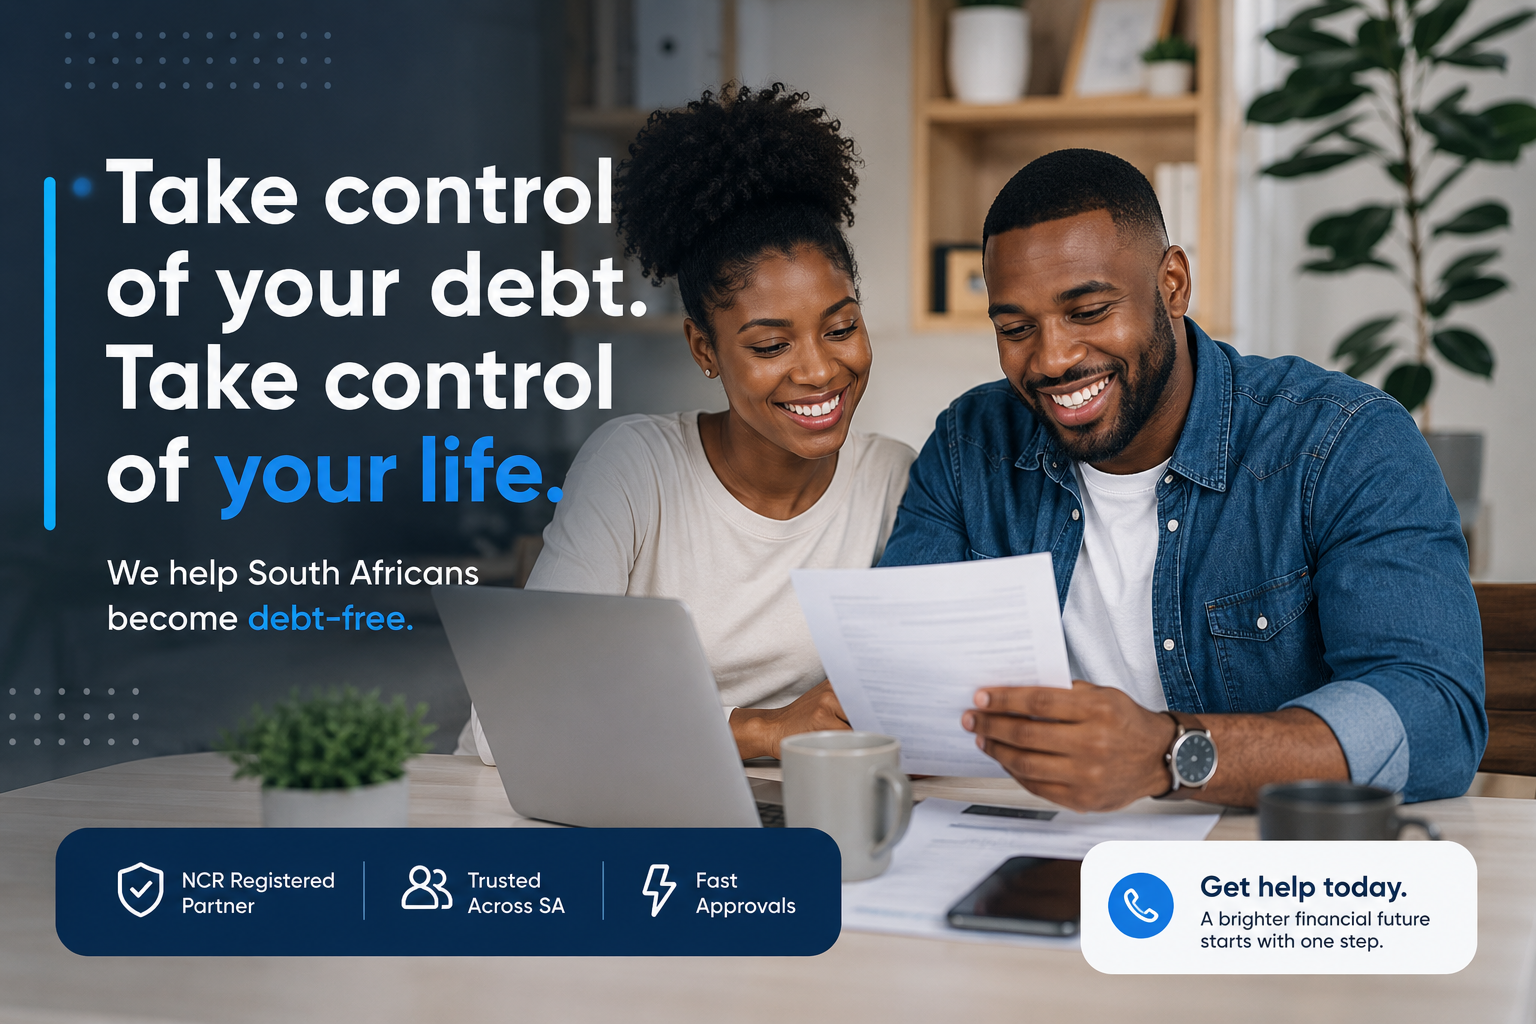
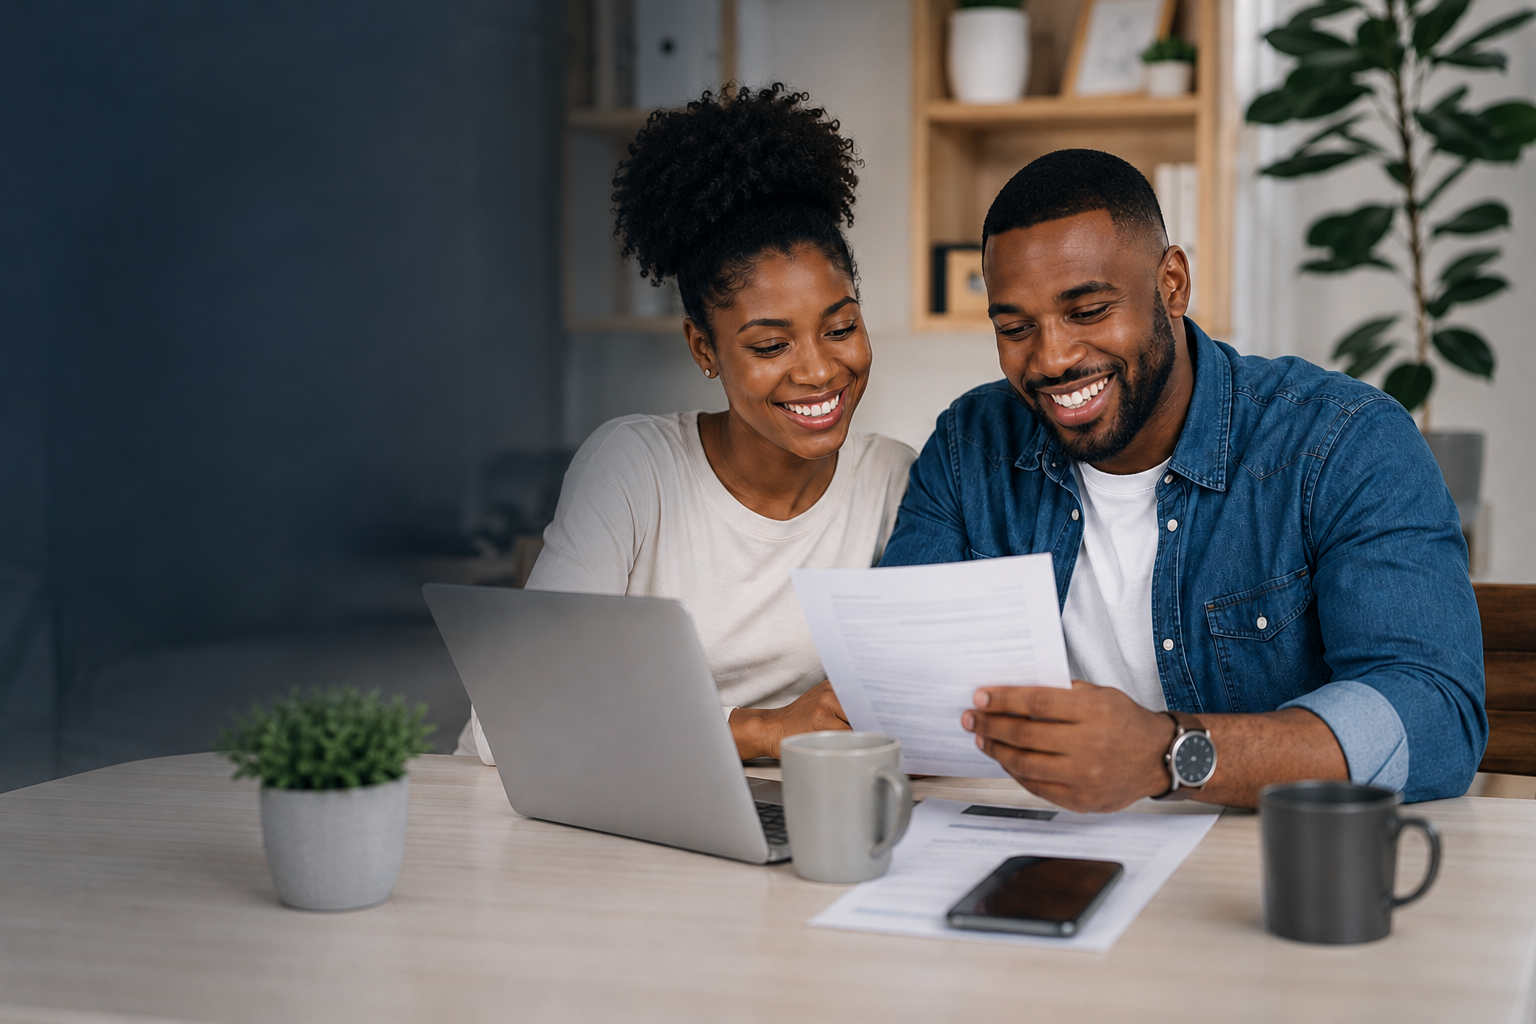
updates

diff --git a/css/style.css b/css/style.css
@@ -248,7 +248,7 @@ blockquote {
 @media (max-width: 768px) {
 
     .hero-title {
-        font-size: 3rem;
+        font-size: 2.8rem;
     }
 
     .hero {
@@ -259,6 +259,15 @@ blockquote {
     .trust-badges {
         justify-content: center;
     }
+
+    .hero .col-lg-6:first-child {
+        padding-bottom: 80px;
+    }
+
+    .hero-text {
+        padding: 100px 25px 80px;
+    }
+
 }
 /* HERO IMAGE WRAPPER */
 .hero-image-wrapper {
@@ -300,15 +309,34 @@ blockquote {
         transform: translateY(0px);
     }
 }
+
 .hero-image-side {
-
-    background-image: url("images/back.png");
-
+    background: url("../images/back.png") center center no-repeat;
     background-size: cover;
 
-    background-position: center;
-
-    background-repeat: no-repeat;
-
+    height: 100vh;
     min-height: 100vh;
+}
+.hero-text {
+    padding: 0 60px;
+    display: flex;
+    flex-direction: column;
+    justify-content: center;
+    height: 100%;
+}
+.hero .row {
+    min-height: 100vh;
+}
+.hero-text .lead {
+    max-width: 520px;
+}
+.hero-title {
+    margin-bottom: 20px;
+}
+@media (max-width: 768px) {
+
+    .hero .col-lg-6:first-child {
+        padding-bottom: 80px;
+    }
+
 }

diff --git a/index.html b/index.html
@@ -18,7 +18,7 @@
     <!-- Font -->
     <link href="https://fonts.googleapis.com/css2?family=Poppins:wght@300;400;600;700&display=swap" rel="stylesheet">
 
-    
+    <link rel="stylesheet" href="css/style.css">
     <style>
         body {font-family: 'Poppins', sans-serif; background:#f8f9fa;}
         header {
@@ -115,28 +115,26 @@
   </nav>
 </header>
 <!-- HERO SECTION -->
-<section class="hero position-relative overflow-hidden text-white">
-    
-    <!-- Background Overlay -->
+<!-- HERO SECTION -->
+<section class="hero position-relative text-white">
+
     <div class="hero-overlay"></div>
 
-    <!-- Floating Shapes -->
     <div class="hero-shape shape-1"></div>
     <div class="hero-shape shape-2"></div>
     <div class="hero-shape shape-3"></div>
 
-    <div class="container-fluid position-relative z-1" data-aos="fade-up">
-
-        <div class="row align-items-center min-vh-100 g-0">
+    <div class="container-fluid position-relative z-1">
+        <div class="row hero-row align-items-center">
 
             <!-- LEFT CONTENT -->
-            <div class="col-lg-6 text-center text-lg-start">
+            <div class="col-lg-6 hero-text px-4 px-lg-5">
 
                 <span class="hero-badge mb-3 d-inline-block">
                     🇿🇦 Trusted Debt Assistance Across South Africa
                 </span>
 
-                <h1 class="display-2 fw-bold hero-title mb-4">
+                <h1 class="display-4 fw-bold hero-title mb-4">
                     Your Salary Should <br>
                     Last the Month
                 </h1>
@@ -145,34 +143,30 @@
                     Helping South Africans regain control of their finances with trusted debt review solutions.
                 </p>
 
-                <!-- TRUST BADGES -->
-                <div class="trust-badges d-flex flex-wrap gap-3 justify-content-center justify-content-lg-start mb-5">
+                <div class="trust-badges d-flex flex-wrap gap-3 mb-4">
                     <span>✔ NCR Registered Partner</span>
                     <span>✔ Trusted Across SA</span>
                     <span>✔ Fast Approvals</span>
                 </div>
 
-                <!-- BUTTONS -->
-                <div class="d-flex flex-column flex-sm-row gap-3 justify-content-center justify-content-lg-start">
-                    <a href="#contact" class="btn btn-light btn-lg px-4 hero-btn-primary">
+                <div class="d-flex flex-column flex-sm-row gap-3 hero-buttons">
+                    <a href="#contact" class="btn btn-light btn-lg hero-btn-primary">
                         Get Help Now
                     </a>
 
-                    <a href="#contact" class="btn btn-outline-light btn-lg px-4 hero-btn-secondary">
+                    <a href="#contact" class="btn btn-outline-light btn-lg hero-btn-secondary">
                         Check If You Qualify
                     </a>
                 </div>
 
             </div>
 
-           <!-- RIGHT SIDE -->
-<!-- RIGHT SIDE IMAGE -->
-<!-- RIGHT SIDE IMAGE -->
-<div class="col-lg-6 d-none d-lg-block hero-image-side"></div>
+            <!-- RIGHT IMAGE -->
+            <div class="col-lg-6 hero-image-side d-none d-lg-block"></div>
 
         </div>
-
     </div>
+
 </section>
 
 
@@ -337,7 +331,7 @@
     </div>
 </section>
 
-<section class="py-5 bg-white text-center" data-aos="fade-up">
+<section class="py-5 text-center text-white" style="background:#025bdf;" data-aos="fade-up">
     <div class="container">
     <h1>Who Qualifies for Debt Review</h1>
     <p>You may qualify for debt review in South Africa if you are over 18, earn a steady income, and

diff --git a/privacy.html b/privacy.html
@@ -6,7 +6,7 @@
     <link rel="stylesheet" href="css/style.css">
     <link href="https://cdn.jsdelivr.net/npm/bootstrap@5.3.0/dist/css/bootstrap.min.css" rel="stylesheet">
     <link rel="stylesheet" href="https://cdnjs.cloudflare.com/ajax/libs/font-awesome/6.0.0/css/all.min.css">
-
+    <link rel="stylesheet" href="css/style.css">
 
 
 </head>